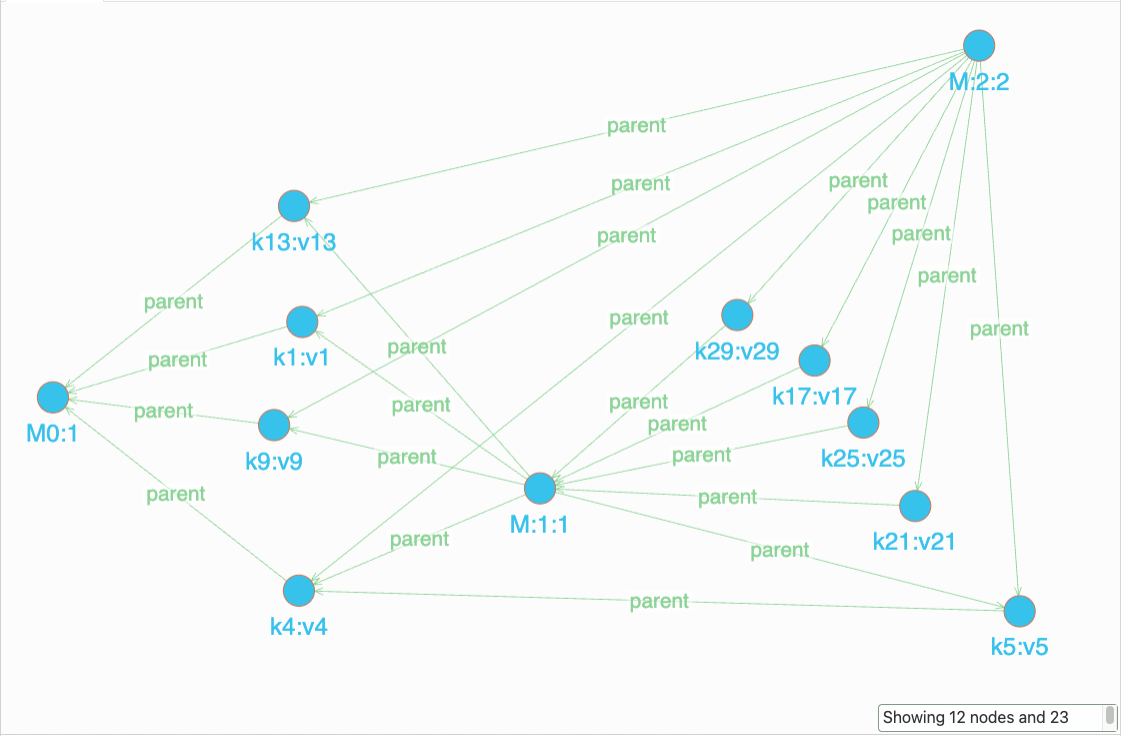
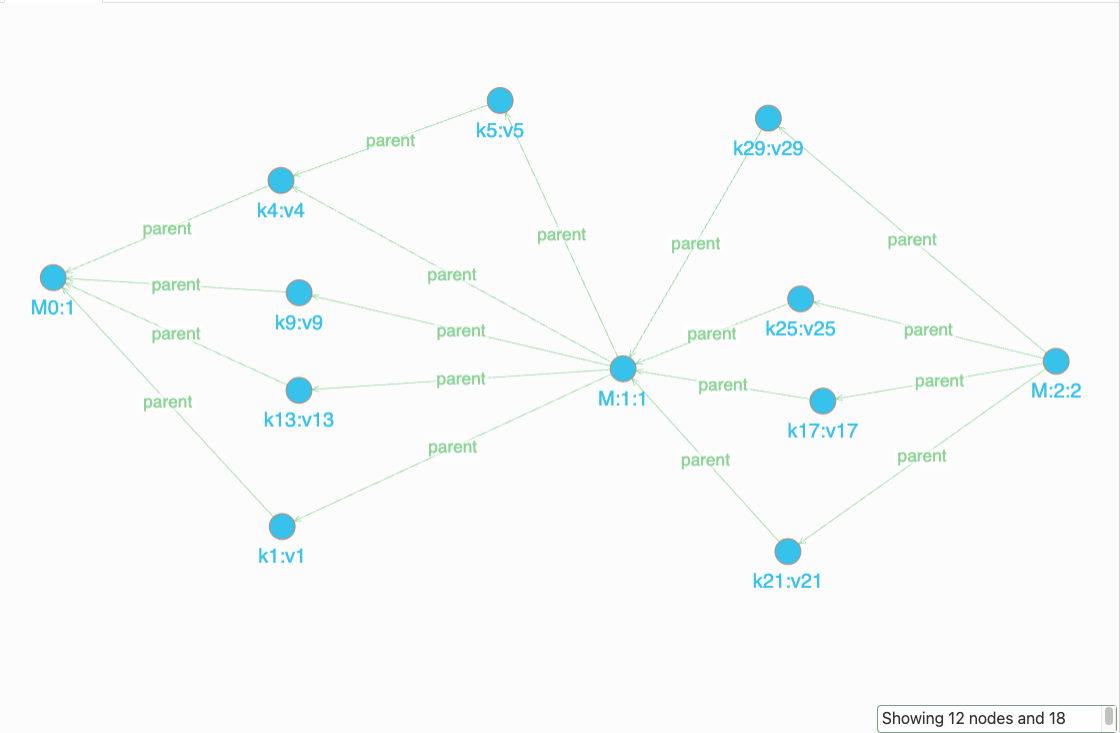
add parent edge between milestone and keys within the proposed epoch only

diff --git a/client/client.go b/client/client.go
@@ -390,7 +390,7 @@ func (c *Client) checkCanApplyDirectWrite(incomingMsg *message.Message) (
 	comparison := localClock.Compare(remoteClock)
 	if comparison == vlc.Less { // We are strictly behind, and it's not a simple +1 increment
 		fmt.Printf("Node %d [G:%d]: Apply rule: GAP_DETECTED (local < remote, not +1). Requires Sync.\n", c.ID, goid())
-		return 0, true
+		return 0, false
 	}
 	// If local is Greater, Equal, or Incomparable (but not strictly Less and not +1)
 	fmt.Printf("Node %d [G:%d]: Apply rule: IGNORE/NO_ACTION (local %v vs remote %v, comp %d not meeting other criteria).\n", c.ID, goid(), localClock.Values, remoteClock.Values, comparison)
@@ -1155,48 +1155,119 @@ func (c *Client) recordMilestoneEvent(msg *message.Message, epochEvents []string
 		}
 	}
 
-	// SIMPLE LOGIC: Connect to ALL events that occurred causally before this milestone
-	// and are not already connected to it
 	parentIDs := make([]string, 0)
-	
-	// Get all existing events (excluding milestones, timestamps, clocks)
-	for storedName, eventID := range c.lastMessageEvents {
-		// Skip milestone events, timestamp entries, clock entries
-		if strings.HasPrefix(storedName, "M") ||
-			strings.HasPrefix(storedName, "timestamp_") ||
-			strings.HasPrefix(storedName, "clock_") ||
-			strings.HasPrefix(storedName, "latest_from_node_") {
-			continue
+
+	// CORRECTED LOGIC: Only connect to events from the current epoch
+	if len(epochEvents) > 0 {
+		// Use the provided epoch events - these are exactly the events from this epoch
+		parentIDs = append(parentIDs, epochEvents...)
+		fmt.Printf("Node %d: Milestone %s connecting to epoch events: %v\n",
+			c.ID, eventName, epochEvents)
+	} else {
+		// For received milestones, find events that occurred after the previous milestone
+		// but before this milestone (i.e., events from this epoch only)
+		
+		var milestoneNum int
+		if strings.HasPrefix(key, "M:") {
+			fmt.Sscanf(key, "M:%d", &milestoneNum)
 		}
 		
-		// Get the event's vector clock
-		clockKey := fmt.Sprintf("clock_%s", eventID)
-		if clockStr, exists := c.lastMessageEvents[clockKey]; exists {
-			eventClock := c.parseClockString(clockStr)
-			
-			// Check if this event occurred causally before the milestone
-			// An event occurred before if ALL its clock values are <= milestone clock values
-			occurredBefore := true
-			for nodeID, eventTime := range eventClock {
-				if milestoneTime, exists := milestoneClock[nodeID]; exists {
-					if eventTime > milestoneTime {
-						occurredBefore = false
-						break
-					}
-				} else {
-					// If milestone doesn't have this node's clock, event might be concurrent
-					occurredBefore = false
+		// Find the previous milestone
+		var previousMilestoneID string
+		if milestoneNum > 1 {
+			// Look for M:(milestoneNum-1) milestone
+			prevMilestoneKey := fmt.Sprintf("M:%d", milestoneNum-1)
+			for storedName, eventID := range c.lastMessageEvents {
+				if strings.HasPrefix(storedName, prevMilestoneKey+":") {
+					previousMilestoneID = eventID
 					break
 				}
 			}
+		} else {
+			// For M:1, the previous milestone is M0
+			for storedName, eventID := range c.lastMessageEvents {
+				if strings.HasPrefix(storedName, "M0:") {
+					previousMilestoneID = eventID
+					break
+				}
+			}
+		}
+		
+		if previousMilestoneID != "" {
+			// Get the previous milestone's vector clock
+			prevClockKey := fmt.Sprintf("clock_%s", previousMilestoneID)
+			var prevMilestoneClock map[int]int
+			if clockStr, exists := c.lastMessageEvents[prevClockKey]; exists {
+				prevMilestoneClock = c.parseClockString(clockStr)
+			}
 			
-			if occurredBefore {
-				parentIDs = append(parentIDs, eventID)
+			// Find all non-milestone events that occurred after the previous milestone
+			// but before this milestone (epoch events)
+			for storedName, eventID := range c.lastMessageEvents {
+				// Skip milestone events, timestamp entries, clock entries
+				if strings.HasPrefix(storedName, "M") ||
+					strings.HasPrefix(storedName, "timestamp_") ||
+					strings.HasPrefix(storedName, "clock_") ||
+					strings.HasPrefix(storedName, "latest_from_node_") {
+					continue
+				}
+				
+				// Get the event's vector clock
+				clockKey := fmt.Sprintf("clock_%s", eventID)
+				if clockStr, exists := c.lastMessageEvents[clockKey]; exists {
+					eventClock := c.parseClockString(clockStr)
+					
+					// Check if this event occurred after the previous milestone
+					// and before/at the current milestone
+					occurredAfterPrev := true
+					occurredBeforeCurrent := true
+					
+					// Compare with previous milestone clock
+					if prevMilestoneClock != nil {
+						for nodeID, prevTime := range prevMilestoneClock {
+							if eventTime, exists := eventClock[nodeID]; exists {
+								if eventTime <= prevTime {
+									occurredAfterPrev = false
+									break
+								}
+							}
+						}
+					}
+					
+					// Compare with current milestone clock
+					for nodeID, eventTime := range eventClock {
+						if milestoneTime, exists := milestoneClock[nodeID]; exists {
+							if eventTime > milestoneTime {
+								occurredBeforeCurrent = false
+								break
+							}
+						}
+					}
+					
+					// If event occurred after previous milestone and before current milestone,
+					// it's part of this epoch
+					if occurredAfterPrev && occurredBeforeCurrent {
+						parentIDs = append(parentIDs, eventID)
+					}
+				}
+			}
+			
+			fmt.Printf("Node %d: Received milestone %s connecting to epoch events (after prev milestone): %v\n",
+				c.ID, eventName, parentIDs)
+		} else {
+			// Fallback: connect to the most recent milestone if no epoch events found
+			for storedName, eventID := range c.lastMessageEvents {
+				if strings.HasPrefix(storedName, "M:") || strings.HasPrefix(storedName, "M0:") {
+					parentIDs = append(parentIDs, eventID)
+					fmt.Printf("Node %d: Received milestone %s connected to previous milestone (fallback)\n",
+						c.ID, eventName)
+					break
+				}
 			}
 		}
 	}
 
-	fmt.Printf("Node %d: Creating milestone %s with parents (all causally prior events): %v\n", 
+	fmt.Printf("Node %d: Creating milestone %s with parents (epoch events only): %v\n", 
 		c.ID, eventName, parentIDs)
 
 	// Add the event to the graph

diff --git a/main.go b/main.go
@@ -1,8 +1,11 @@
 package main
 
 import (
+	"bytes"
+	"encoding/json"
 	"flag"
 	"fmt"
+	"net/http"
 	"time"
 
 	"github.com/libp2p/go-libp2p/core/peer"
@@ -11,11 +14,42 @@ import (
 	"github.com/yourorg/p2p-framework/dgraph"
 )
 
+// clearDgraph drops all data from the Dgraph instance
+func clearDgraph() error {
+	url := "http://localhost:8080/alter"
+	payload := map[string]bool{"drop_all": true}
+	
+	jsonData, err := json.Marshal(payload)
+	if err != nil {
+		return fmt.Errorf("failed to marshal JSON: %v", err)
+	}
+	
+	resp, err := http.Post(url, "application/json", bytes.NewBuffer(jsonData))
+	if err != nil {
+		return fmt.Errorf("failed to make POST request: %v", err)
+	}
+	defer resp.Body.Close()
+	
+	if resp.StatusCode != http.StatusOK {
+		return fmt.Errorf("unexpected status code: %d", resp.StatusCode)
+	}
+	
+	fmt.Println("Successfully cleared Dgraph instance")
+	return nil
+}
+
 func main() {
 	// Parse command line flags
 	singleNodePtr := flag.Int("node", 0, "Specify a single node ID (1-4) to display only that node's graph, or 0 for all nodes")
 	flag.Parse()
 	singleNode := *singleNodePtr
+
+	// Clear Dgraph instance before starting
+	fmt.Println("Clearing Dgraph instance...")
+	if err := clearDgraph(); err != nil {
+		fmt.Printf("Warning: Failed to clear Dgraph: %v\n", err)
+		fmt.Println("Continuing anyway...")
+	}
 
 	// Initialize Dgraph
 	dgraph.InitDgraph("localhost:9080")

diff --git a/README.md b/README.md
@@ -35,9 +35,58 @@ docker ps
 ## Running the Experiment
 
 ```bash
-# To view results for a specific node  - this command generate the graph of node 3 after the experiment
+# To view results for a specific node - this command generates the graph of node 3 after the experiment
 go run main.go -node=3
+
+# To view results for other individual nodes:
+go run main.go -node=1  # Generate graph for Node 1 only
+go run main.go -node=2  # Generate graph for Node 2 only
+go run main.go -node=4  # Generate graph for Node 4 only
 ```
+
+## Visualizing Event Graphs in Dgraph Ratel UI
+
+After running the experiment, you can visualize the event graphs using the Dgraph Ratel UI:
+
+1. **Access Ratel UI**: Open your browser and go to http://localhost:8000
+2. **Connect to Dgraph**: Make sure the connection is set to `localhost:8080` (this should be the default)
+3. **Query the Event Graph**: Use the following query to view all events and their causal relationships:
+
+```graphql
+{
+  events(func: has(id)) {
+    uid
+    id
+    name
+    key
+    value
+    node
+    parent {
+      uid
+      id
+      name
+    }
+  }
+}
+```
+
+This query will return:
+- **uid**: Dgraph's internal unique identifier
+- **id**: Event ID (e.g., e1_1, e2_3, etc.)
+- **name**: Event name in format "key:value" (e.g., "k1:v1", "M:1:1")
+- **key**: The key part of the event (e.g., "k1", "M:1")
+- **value**: The value part of the event (e.g., "v1", "1")
+- **node**: Which node created this event (1, 2, 3, or 4)
+- **parent**: Array of parent events showing causal dependencies
+
+### Understanding the Graph Structure
+
+- **Genesis Events (M0)**: Root events with no parents
+- **Key-Value Events (k1:v1, k2:v2, etc.)**: Regular data events
+- **Milestone Events (M:1:1, M:2:2, etc.)**: Consensus milestones that connect to events from their respective epochs
+- **Parent Relationships**: Show causal dependencies based on vector clock ordering
+
+The visualization will display the complete causal graph showing how events are connected across all nodes in the distributed system.
 
 ## Explanation
 
